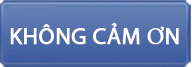
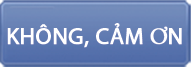
Duyen commit feed back
button no share

Changed region(s): [[0.0262, 0.0, 1.0, 1.0]]

diff --git a/wp-content/themes/vilagankhoe/style.css b/wp-content/themes/vilagankhoe/style.css
@@ -132,7 +132,7 @@ there.
 	PAGE section:  Header
 	=======================================================*/
 	header{
-		margin-top: 5px;
+		margin-top: 15px;
 		height: 180px;
 		margin-bottom: 5px;
 		overflow: hidden;
@@ -146,7 +146,7 @@ there.
 	header #logo h1,
 	header #logo p{
 		margin: 0;
-		text-align: right;
+		text-align: center;
 	}
 	header #logo img{	
 		height: 100px;
@@ -162,18 +162,19 @@ there.
 		list-style: none;
 		background-image: url(images/bg-top-menu.png);
 		background-repeat: no-repeat;
-		width: 631px;
+		width: 100%;
 		height: 30px;
 		margin: 0;
+		background-size: 100% 100%;
 	}
 	header nav #menu li{
 		float: left;
-		margin-left: 38px;
+		margin-left: 20px;
 		height: 30px;
 		margin-bottom: 0;
 	}
 	header nav #menu li:first-child{
-		margin-left: 52px;	
+		/*margin-left: 20px;*/	
 	}
 	header nav #menu li a{	
 		font-size: 15px;
@@ -330,7 +331,7 @@ there.
 	#huongung{
 		padding-right: 100px;
 		background-image: url(images/icon-next.png);
-		background-position: right 35%;
+		background-position: 97% 35%;
 		background-repeat: no-repeat;
 	}	
 	#huongung #toihuongung .top{
@@ -374,6 +375,7 @@ there.
 		max-width: 286px;
 		display: block;
 		margin: 0 auto;
+		box-sizing: border-box;
 	}
 	#huongung #sohuongung strong{
 		font-family: Myriad Pro;
@@ -409,9 +411,8 @@ there.
 	#camon-fb .container{
 		width: auto;
 	}
-	#camon-fb h1{	
-		/*font-size: 36px;*/
-		font-size: 25px;
+	#camon-fb h1{			
+		font-size: 22px;
 		color: #9cc0e6;
 		text-transform: uppercase;
 		margin-top: 20px;
@@ -422,13 +423,17 @@ there.
 		font-size: 20px;
 
 	}
-	#camon-fb p a{
-
+	
+	#camon-fb a{
+		width: 193px;
+		height: 67px;
+		display: block;
 	}
-	#camon-fb p .btn-share img{	
+	#camon-fb .btn-share{	
 		float: right;
 	}
-	#camon-fb p .btn-dont-share img{	
+	#camon-fb .btn-dont-share{	
+		width: 192px;
 		float: left;
 	}
 

diff --git a/wp-content/themes/vilagankhoe/style-1000.css b/wp-content/themes/vilagankhoe/style-1000.css
@@ -1,6 +1,18 @@
+@media (max-width: 1024px){
+	body{	
+		background-image: url(images/background-1024.png);
+		
+	}
+	header #logo h1, header #logo p {
+		margin: 0;
+		text-align: right;
+	}
+}
 @media (max-width: 959px){
 	.container{
 		max-width: 768px;
+		padding: 0 12px;
+		box-sizing: border-box;
 	}
 	#page,
 	header, header .top,
@@ -10,22 +22,32 @@
 	#hoidap{
 		height: auto;
 	}
+	header{
+		margin-top: 40px;
+	}
 	header nav #menu {   
 		width: 100%;    
 		background-size: 100% 100%;
 	}
 	header nav #menu li {		
-		margin-left: 10px;		
+		margin-left: 5px;		
 	}
 	header nav #menu li:first-child {
 		margin-left: 5px;
 	}
+	header nav #menu li a{
+		padding: 0 10px;
+	}
+	
 	#huongung {
 		padding-right: 0;
 		background: none;
 	}
 	#huongung #btn-toihuongung {
-		font-size: 26px;
+		font-size: 20px;
+	}
+	#huongung #sohuongung strong {    
+		font-size: 50px;
 	}
 	article .entry-title{
 		margin-left: 0;
@@ -90,7 +112,11 @@
 		margin: 0;
 	}
 }
-
+@media (max-width: 768px){
+	body{	
+		background-image: url(images/background-768.png);
+	}
+}
 
 /* Larger than desktop */
 @media (min-width: 1000px) {

diff --git a/wp-content/themes/vilagankhoe/header.php b/wp-content/themes/vilagankhoe/header.php
@@ -27,7 +27,7 @@ global $post;
 			<header id="masthead" class="site-header" role="banner">
 				<div class="container">
 					<div class="row top">
-						<div class="one-third column " id="logo">							
+						<div class="five columns " id="logo">							
 							<?php if (is_front_page() || is_home()) : ?>
 								<h1 class="site-title"><a href="<?php echo esc_url(home_url('/')); ?>" rel="home"><img src="<?php echo esc_url(get_template_directory_uri()); ?>/images/logo.png" alt=""/></a></h1>
 							<?php else : ?>
@@ -35,7 +35,7 @@ global $post;
 							<?php endif;
 							?>
 						</div>
-						<div class="two-thirds column" id="search-nav">
+						<div class="seven columns" id="search-nav">
 							<form id="search" class="column offset-by-four" action="<?= get_permalink(82) ?>">
 								<input type="hidden" name="cx" value="partner-pub-008542593403486818317:fokhjyjrd0s" /> 
 								<input type="hidden" name="cof" value="FORID:10" /> 

diff --git a/wp-content/themes/vilagankhoe/page-templates/homepage.php b/wp-content/themes/vilagankhoe/page-templates/homepage.php
@@ -40,10 +40,9 @@ wp_enqueue_script( 'waypoints', get_stylesheet_directory_uri().'/js/waypoints.mi
 				<div id="camon-fb" class="camon " style="display:none;">
 					<div class="container">
 
-						<h1>  Cảm ơn bạn đã HƯỞNG ỨNG chương trình<br>
-							cùng hành động vì bệnh nhân viêm gan!</h1>
+						<h1>  <?php the_field('tk_title');?></h1>
 						<p>
-							Hãy chia sẻ để chương trình lan tỏa và ý nghĩa hơn
+							 <?php the_field('tk_content');?>
 						</p>
 						<div class="row">
 							<div class="one-half column">

diff --git a/wp-content/themes/vilagankhoe/page-templates/timhieubenh.php b/wp-content/themes/vilagankhoe/page-templates/timhieubenh.php
@@ -37,7 +37,7 @@ get_header();
 								$img_src = $img[0];
 								?>
 								<p class="forpc">
-									<a href="javascrip:void(0)" data-src="<?php echo $img_src; ?>">
+									<a href="#" data-src="<?php echo $img_src; ?>">
 										<?php echo $post_obj->post_title; ?>
 									</a>
 								</p>
